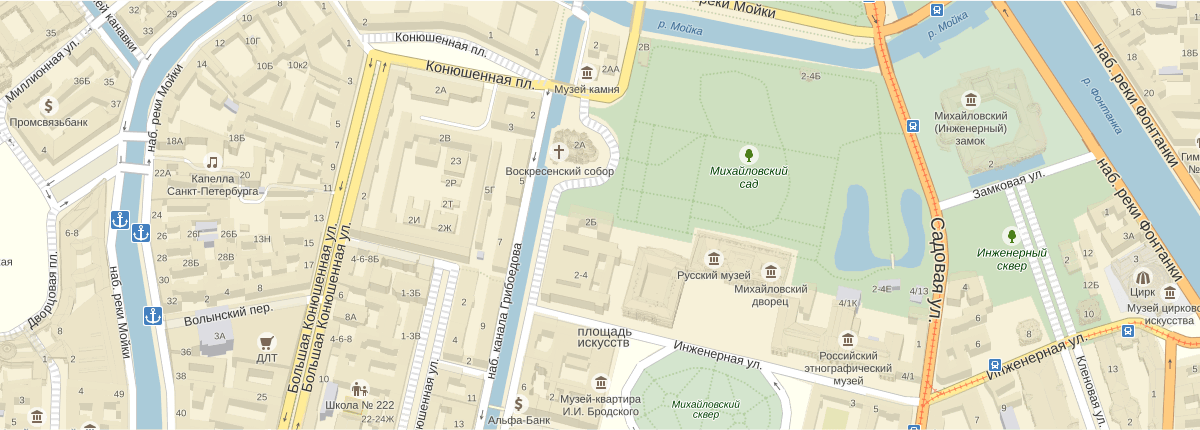
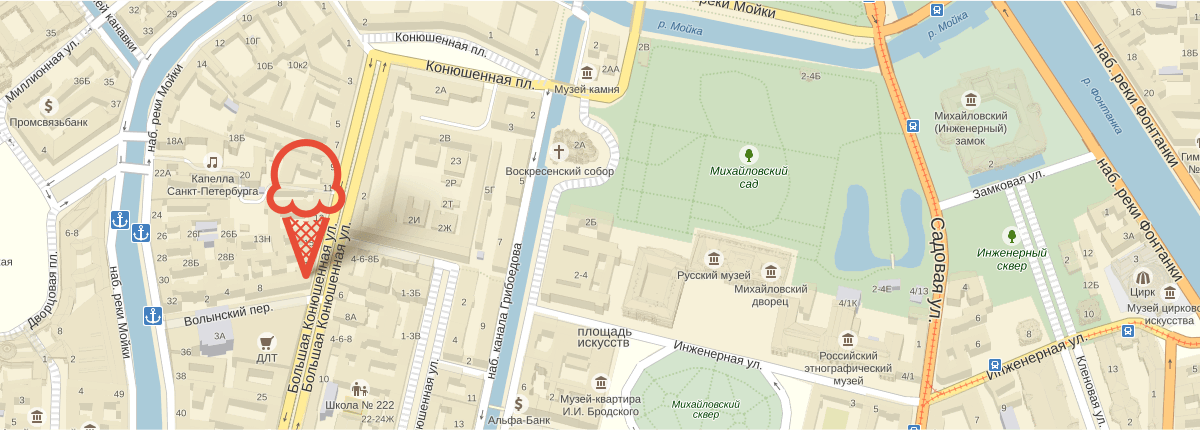
WIP: pin added to map, but i can't see it(

Changed region(s): [[0.2158, 0.3023, 0.37, 0.6651], [0.74, 0.9977, 0.7708, 1.0]]

diff --git a/index.html b/index.html
@@ -327,33 +327,33 @@
               </section>
             </section>
           </div>
-          <section class="map">
-            <h2 class="visually-hidden">Наш адрес на карте</h2>
-            <!-- <iframe class="map__iframe" src="https://www.google.com/maps/embed?pb=!1m18!1m12!1m3!1d1998.6037872533277!
-                                             2d30.320858716096975!3d59.93871648187614!2m3!1f0!2f0!3f0!3m2!1i1024!2i768
-                                             !4f13.1!3m3!1m2!1s0x4696310fca145cc1%3A0x42b32648d8238007!2z0JHQvtC70YzRi
-                                             NCw0Y8g0JrQvtC90Y7RiNC10L3QvdCw0Y8g0YPQuy4sIDE5LzgsINCh0LDQvdC60YIt0J_Qtd
-                                             GC0LXRgNCx0YPRgNCzLCAxOTExODY!5e0!3m2!1sru!2sru!4v1536857734322"
-                    width="100%" height="430" frameborder="0" style="border:0" allowfullscreen>
-            </iframe> -->
-
-            <section class="contacts">
-              <h3 class="visually-hidden">Контактный адрес и телефон</h3>
-              <div class="contacts__address">
-                <p class="contacts__desc">Адрес главного офиса</br> и офлайн-магазина:</p>
-                <p class="contacts__data">ул. Большая Конюшенная 19/8, Санкт-Петербург</p>
-              </div>
-              <div class="contacts__phone">
-                <p class="contacts__phone-desc">Для заказов по телефону:</p>
-                <p class="contacts__phone-data">8 812 450-25-25</p>
-                <p class="contacts__phone-extra">(с 10 до 20 ежедневно)</p>
-              </div>
-              <div class="feedback">
-                <button class="button feedback__button--open">Форма обратной связи</button>
-              </div>
-            </section>
-          </section>
         </main>
+      </div>
+
+
+      <section class="map">
+        <h2 class="visually-hidden">Наш адрес на карте</h2>
+        <div class="map-wrapper" id="map"></div>
+        <div class="centerer contacts-centerer">
+          <section class="contacts">
+            <h3 class="visually-hidden">Контактный адрес и телефон</h3>
+            <div class="contacts__address">
+              <p class="contacts__desc">Адрес главного офиса</br> и офлайн-магазина:</p>
+              <p class="contacts__data">ул. Большая Конюшенная 19/8, Санкт-Петербург</p>
+            </div>
+            <div class="contacts__phone">
+              <p class="contacts__phone-desc">Для заказов по телефону:</p>
+              <p class="contacts__phone-data">8 812 450-25-25</p>
+              <p class="contacts__phone-extra">(с 10 до 20 ежедневно)</p>
+            </div>
+            <div class="feedback">
+              <button class="button feedback__button--open">Форма обратной связи</button>
+            </div>
+          </section>
+        </div>
+      </section>
+
+      <div class="centerer">
         <footer class="page-footer content-container">
           <nav class="page-footer__nav">
             <section class="social">
@@ -443,6 +443,7 @@
         </form>
       </div>
     </div>
+    <script src="https://api-maps.yandex.ru/2.1/?lang=ru_RU" type="text/javascript"></script>
     <script src="js/script.js"></script>
   </body>
 </html>

diff --git a/css/style.css b/css/style.css
@@ -31,7 +31,7 @@ img {
   background-image: url("../img/slide_1.png");
   background-repeat: no-repeat;
   background-position-x: center;
-  background-position-y: 3px;
+  background-position-y: 0;
 
   transition: background-image 0.5s ease, background-color 0.5s ease;
 }
@@ -232,6 +232,7 @@ PAGE HEADER
 .navigation__list {
   display: flex;
   padding: 0;
+  margin: 0;
 
   list-style: none;
   font-weight: 700;
@@ -355,6 +356,7 @@ PAGE HEADER
   display: flex;
   align-items: center;
   padding: 0;
+  margin: 0;
 
   list-style: none;
   font-weight: 500;
@@ -584,7 +586,7 @@ PAGE HEADER
 
 .menu__extra {
   position: absolute;
-  top: 67px;
+  top: 64px;
   right: 0;
 
   width: 170px;
@@ -1081,43 +1083,32 @@ SLIDER
 
 .map {
   position: relative;
-
   margin: 20px 0 17px 0;
-  height: 430px;
-  background: #ece5c8 url("../img/map.png") no-repeat center;
 }
 
-.map__iframe {
-  position: relative;
+.map-wrapper {
+  position: absolute;
+  top: 0;
+  left: 0;
   width: 100%;
   height: 430px;
-  z-index: 2;
-  border: none;
+  background: url("../img/map.png") no-repeat center;
+  z-index: 1;
 }
 
-.map::before {
-  content: "";
-  position: absolute;
-  z-index: 1;
-  top: 138px;
-  left: 50%;
-  transform: translateX(-153%);
-
-  width: 218px;
-  height: 142px;
-
-  background: transparent url("../img/pin.png") no-repeat;
+.contacts-centerer {
+  position: relative;
+  min-height: 430px;
 }
 
 .contacts {
   position: absolute;
-  z-index: 3;
+  width: 260px;
+  padding: 20px 21px;
   right: 2.2%;
   top: 50%;
   transform: translateY(-50%);
-  width: 260px;
-  padding: 20px 21px;
-
+  z-index: 2;
   color: #323232;
 
   background-color: #fefefe;
@@ -1437,7 +1428,7 @@ SLIDER
 }
 
 .crumbs {
-  margin-top: 23px;
+  margin-top: 26px;
   margin-bottom: 5px;
   font-size: 14px;
   line-height: 16px;
@@ -1666,14 +1657,6 @@ input[name="fatness"]:disabled + .filter__fatness-indicator {
   top: 0px;
   left: -2px;
   fill: #eef1ef;
-}
-
-.checkbox--unchecked {
-  left: -2px;
-}
-
-.checkbox--checked {
-  left: -2px;
 }
 
 .checkbox--checked {

diff --git a/js/script.js b/js/script.js
@@ -45,3 +45,28 @@ window.addEventListener("keydown", function(evt) {
     }
   }
 });
+
+var myMap;
+
+ymaps.ready(init);
+
+function init () {
+  myMap = new ymaps.Map('map', {
+    center: [59.93928783923012,30.32921285189815],
+    zoom: 16
+  }, {
+    searchControlProvider: 'yandex#search'
+  }),
+
+  myPlacemark = new ymaps.Placemark([59.93866874833191,30.322839923278767], {
+    hintContent: 'ул. Большая Конюшенная 19/8, Санкт-Петербург',
+  }, {
+      iconLayout: 'default#image',
+      iconImageHref: '../img/pin.png',
+      iconImageSize: [218, 142],
+      iconImageOffset: [0, 0]
+  });
+
+  myMap.geoObjects.add(myPlacemark);
+}
+
